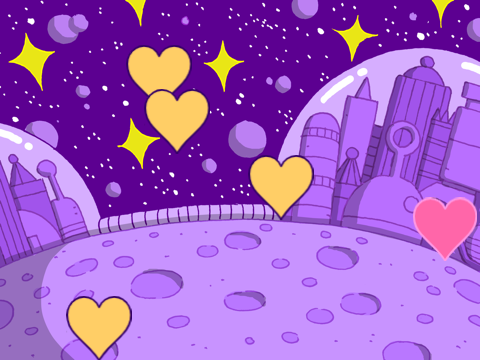
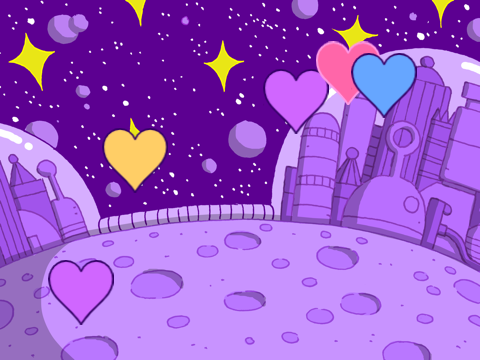
Add files via upload

diff --git a/students/Rahaf/drone/index.html b/students/Rahaf/drone/index.html
@@ -1,0 +1,327 @@
+<!DOCTYPE html>
+<!-- Created with https://packager.turbowarp.org/ -->
+<html>
+<head>
+  <meta charset="utf-8">
+  <meta name="viewport" content="width=device-width, initial-scale=1.0, maximum-scale=1.0, user-scalable=no">
+  <!-- We only include this to explicitly loosen the CSP of various packager environments. It does not provide any security. -->
+  <meta http-equiv="Content-Security-Policy" content="default-src * 'self' 'unsafe-inline' 'unsafe-eval' data: blob:">
+  <title>drone</title>
+  <style>
+    body {
+      color: #ffffff;
+      font-family: sans-serif;
+      overflow: hidden;
+      margin: 0;
+      padding: 0;
+    }
+    :root, body.is-fullscreen {
+      background-color: #000000;
+    }
+    [hidden] {
+      display: none !important;
+    }
+    h1 {
+      font-weight: normal;
+    }
+    a {
+      color: inherit;
+      text-decoration: underline;
+      cursor: pointer;
+    }
+
+    #app, #loading, #error, #launch {
+      position: absolute;
+      top: 0;
+      left: 0;
+      width: 100%;
+      height: 100%;
+    }
+    .screen {
+      display: flex;
+      flex-direction: column;
+      align-items: center;
+      justify-content: center;
+      text-align: center;
+      cursor: default;
+      user-select: none;
+      -webkit-user-select: none;
+      background-color: #000000;
+    }
+    #launch {
+      background-color: rgba(0, 0, 0, 0.7);
+      cursor: pointer;
+    }
+    .green-flag {
+      width: 80px;
+      height: 80px;
+      padding: 16px;
+      border-radius: 100%;
+      background: rgba(255, 255, 255, 0.75);
+      border: 3px solid hsla(0, 100%, 100%, 1);
+      display: flex;
+      justify-content: center;
+      align-items: center;
+      box-sizing: border-box;
+    }
+    #loading {
+      
+    }
+    .progress-bar-outer {
+      border: 1px solid currentColor;
+      height: 10px;
+      width: 200px;
+      max-width: 200px;
+    }
+    .progress-bar-inner {
+      height: 100%;
+      width: 0;
+      background-color: currentColor;
+    }
+    .loading-text, noscript {
+      font-weight: normal;
+      font-size: 36px;
+      margin: 0 0 16px;
+    }
+    .loading-image {
+      margin: 0 0 16px;
+    }
+    #error-message, #error-stack {
+      font-family: monospace;
+      max-width: 600px;
+      white-space: pre-wrap;
+      user-select: text;
+      -webkit-user-select: text;
+    }
+    #error-stack {
+      text-align: left;
+      max-height: 200px;
+      overflow: auto;
+    }
+    .control-button {
+      width: 2rem;
+      height: 2rem;
+      padding: 0.375rem;
+      margin-top: 0.5rem;
+      margin-bottom: 0.5rem;
+      user-select: none;
+      -webkit-user-select: none;
+      cursor: pointer;
+      border: 0;
+      border-radius: 4px;
+    }
+    .control-button-highlight:hover {
+      background: #ff4c4c26;
+    }
+    .control-button-highlight.active {
+      background: #ff4c4c59;
+    }
+    .fullscreen-button {
+      background: white;
+    }
+    .standalone-fullscreen-button {
+      position: absolute;
+      top: 0;
+      right: 0;
+      background-color: rgba(0, 0, 0, 0.5);
+      border-radius: 0 0 0 4px;
+      padding: 4px;
+      cursor: pointer;
+    }
+    .sc-canvas {
+      cursor: auto;
+    }
+    .sc-monitor-root[data-opcode^="data_"] .sc-monitor-value-color {
+      background-color: #ff8c1a;
+    }
+    .sc-monitor-row-value-outer {
+      background-color: #fc662c;
+    }
+    .sc-monitor-row-value-editing .sc-monitor-row-value-outer {
+      background-color: #e25b27;
+    }
+    
+  </style>
+  <meta name="theme-color" content="#000000">
+  
+</head>
+<body>
+  <div id="app"></div>
+
+  <div id="launch" class="screen" hidden title="Click to start">
+    <div class="green-flag">
+      <svg viewBox="0 0 16.63 17.5" width="42" height="44">
+        <defs><style>.cls-1,.cls-2{fill:#4cbf56;stroke:#45993d;stroke-linecap:round;stroke-linejoin:round;}.cls-2{stroke-width:1.5px;}</style></defs>
+        <path class="cls-1" d="M.75,2A6.44,6.44,0,0,1,8.44,2h0a6.44,6.44,0,0,0,7.69,0V12.4a6.44,6.44,0,0,1-7.69,0h0a6.44,6.44,0,0,0-7.69,0"/>
+        <line class="cls-2" x1="0.75" y1="16.75" x2="0.75" y2="0.75"/>
+      </svg>
+    </div>
+  </div>
+
+  <div id="loading" class="screen">
+    <noscript>Enable JavaScript</noscript>
+    
+    
+    <div class="progress-bar-outer"><div class="progress-bar-inner" id="loading-inner"></div></div>
+  </div>
+
+  <div id="error" class="screen" hidden>
+    <h1>Error</h1>
+    <details>
+      <summary id="error-message"></summary>
+      <p id="error-stack"></p>
+    </details>
+  </div>
+
+  <script src="script.js"></script>
+  <script>
+    const appElement = document.getElementById('app');
+    const launchScreen = document.getElementById('launch');
+    const loadingScreen = document.getElementById('loading');
+    const loadingInner = document.getElementById('loading-inner');
+    const errorScreen = document.getElementById('error');
+    const errorScreenMessage = document.getElementById('error-message');
+    const errorScreenStack = document.getElementById('error-stack');
+
+    const handleError = (error) => {
+      console.error(error);
+      if (!errorScreen.hidden) return;
+      errorScreen.hidden = false;
+      errorScreenMessage.textContent = '' + error;
+      let debug = error && error.stack || 'no stack';
+      debug += '\nUser agent: ' + navigator.userAgent;
+      errorScreenStack.textContent = debug;
+    };
+    const setProgress = (progress) => {
+      if (loadingInner) loadingInner.style.width = progress * 100 + '%';
+    };
+    const interpolate = (a, b, t) => a + t * (b - a);
+
+    try {
+      setProgress(0.1);
+
+      const scaffolding = new Scaffolding.Scaffolding();
+      scaffolding.width = 480;
+      scaffolding.height = 360;
+      scaffolding.resizeMode = "preserve-ratio";
+      scaffolding.editableLists = false;
+      scaffolding.usePackagedRuntime = true;
+      scaffolding.setup();
+      scaffolding.appendTo(appElement);
+
+      const vm = scaffolding.vm;
+      window.scaffolding = scaffolding;
+      window.vm = scaffolding.vm;
+      window.Scratch = {
+        vm,
+        renderer: vm.renderer,
+        audioEngine: vm.runtime.audioEngine,
+        bitmapAdapter: vm.runtime.v2BitmapAdapter,
+        videoProvider: vm.runtime.ioDevices.video.provider
+      };
+
+      scaffolding.setUsername("player####".replace(/#/g, () => Math.floor(Math.random() * 10)));
+      scaffolding.setAccentColor("#ff4c4c");
+
+      try {
+        scaffolding.addCloudProvider(new Scaffolding.Cloud.WebSocketProvider(["wss://clouddata.turbowarp.org","wss://clouddata.turbowarp.xyz"], "[email redacted]3"));
+      } catch (error) {
+        console.error(error);
+      }
+
+      vm.setTurboMode(false);
+      if (vm.setInterpolation) vm.setInterpolation(false);
+      if (vm.setFramerate) vm.setFramerate(30);
+      if (vm.renderer.setUseHighQualityRender) vm.renderer.setUseHighQualityRender(false);
+      if (vm.setRuntimeOptions) vm.setRuntimeOptions({
+        fencing: true,
+        miscLimits: true,
+        maxClones: 300,
+      });
+      if (vm.setCompilerOptions) vm.setCompilerOptions({
+        enabled: true,
+        warpTimer: false
+      });
+      if (vm.renderer.setMaxTextureDimension) vm.renderer.setMaxTextureDimension(2048);
+
+      // enforcePrivacy threat model only makes sense in the editor
+      if (vm.runtime.setEnforcePrivacy) vm.runtime.setEnforcePrivacy(false);
+
+      if (typeof ScaffoldingAddons !== 'undefined') {
+        ScaffoldingAddons.run(scaffolding, {"gamepad":false,"pointerlock":false,"specialCloudBehaviors":false,"unsafeCloudBehaviors":false,"pause":false});
+      }
+
+      scaffolding.setExtensionSecurityManager({
+        getSandboxMode: () => 'unsandboxed',
+        canLoadExtensionFromProject: () => true
+      });
+      for (const extension of []) {
+        vm.extensionManager.loadExtensionURL(extension);
+      }
+
+    } catch (e) {
+      handleError(e);
+    }
+  </script>
+  
+  
+    <script>
+      const getProjectData = (function() {
+        const storage = scaffolding.storage;
+        storage.onprogress = (total, loaded) => {
+          setProgress(interpolate(0.2, 0.98, loaded / total));
+        };
+        
+        storage.addWebStore(
+          [
+            storage.AssetType.ImageVector,
+            storage.AssetType.ImageBitmap,
+            storage.AssetType.Sound,
+            storage.AssetType.Font
+          ].filter(i => i),
+          (asset) => new URL('./assets/' + asset.assetId + '.' + asset.dataFormat, location).href
+        );
+        return () => new Promise((resolve, reject) => {
+        const xhr = new XMLHttpRequest();
+        xhr.onload = () => {
+          resolve(xhr.response);
+        };
+        xhr.onerror = () => {
+          if (location.protocol === 'file:') {
+            reject(new Error('Zip environment must be used on a website, not on a local file. To fix this error, use the "Plain HTML" environment instead.'));
+          } else {
+            reject(new Error('Request to load project data failed.'));
+          }
+        };
+        xhr.onprogress = (e) => {
+          if (e.lengthComputable) {
+            setProgress(interpolate(0.1, 0.2, e.loaded / e.total));
+          }
+        };
+        xhr.responseType = 'arraybuffer';
+        xhr.open('GET', "./assets/project.json");
+        xhr.send();
+      });
+      })();
+    </script>
+  <script>
+    const run = async () => {
+      const projectData = await getProjectData();
+      await scaffolding.loadProject(projectData);
+      setProgress(1);
+      loadingScreen.hidden = true;
+      if (false) {
+        scaffolding.start();
+      } else {
+        launchScreen.hidden = false;
+        launchScreen.addEventListener('click', () => {
+          launchScreen.hidden = true;
+          scaffolding.start();
+        });
+        launchScreen.focus();
+      }
+    };
+    run().catch(handleError);
+  </script>
+</body>
+</html>